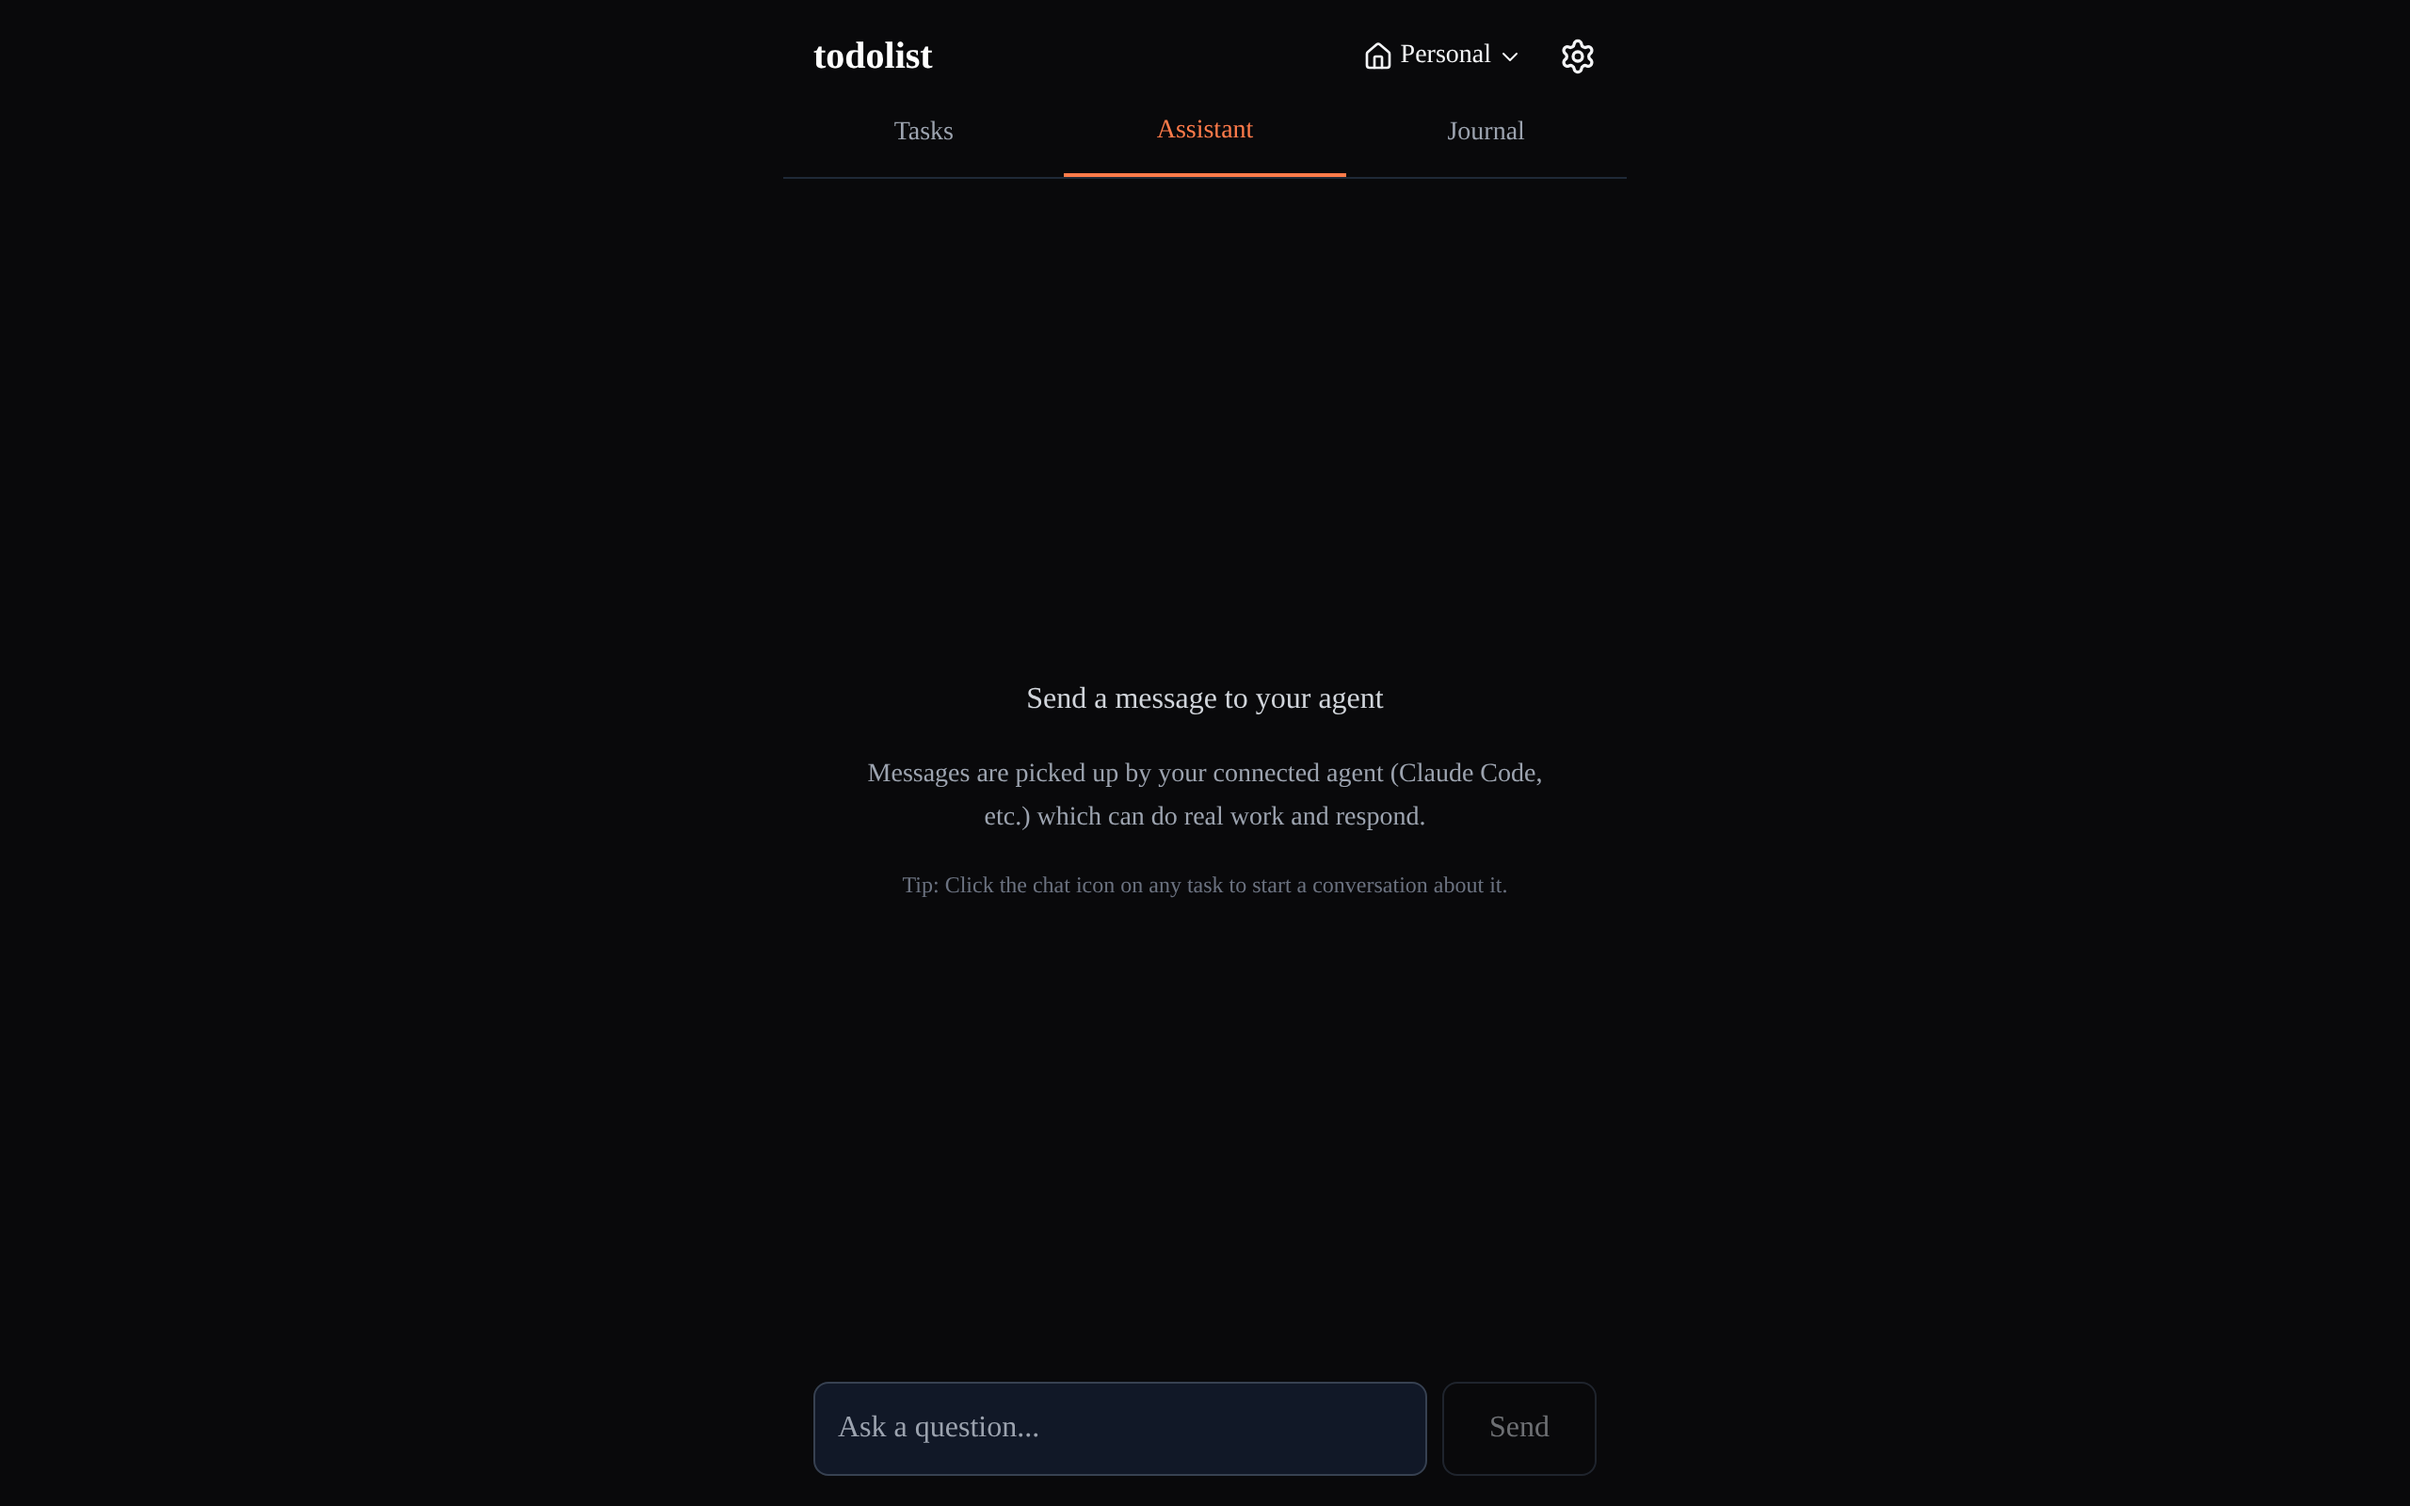
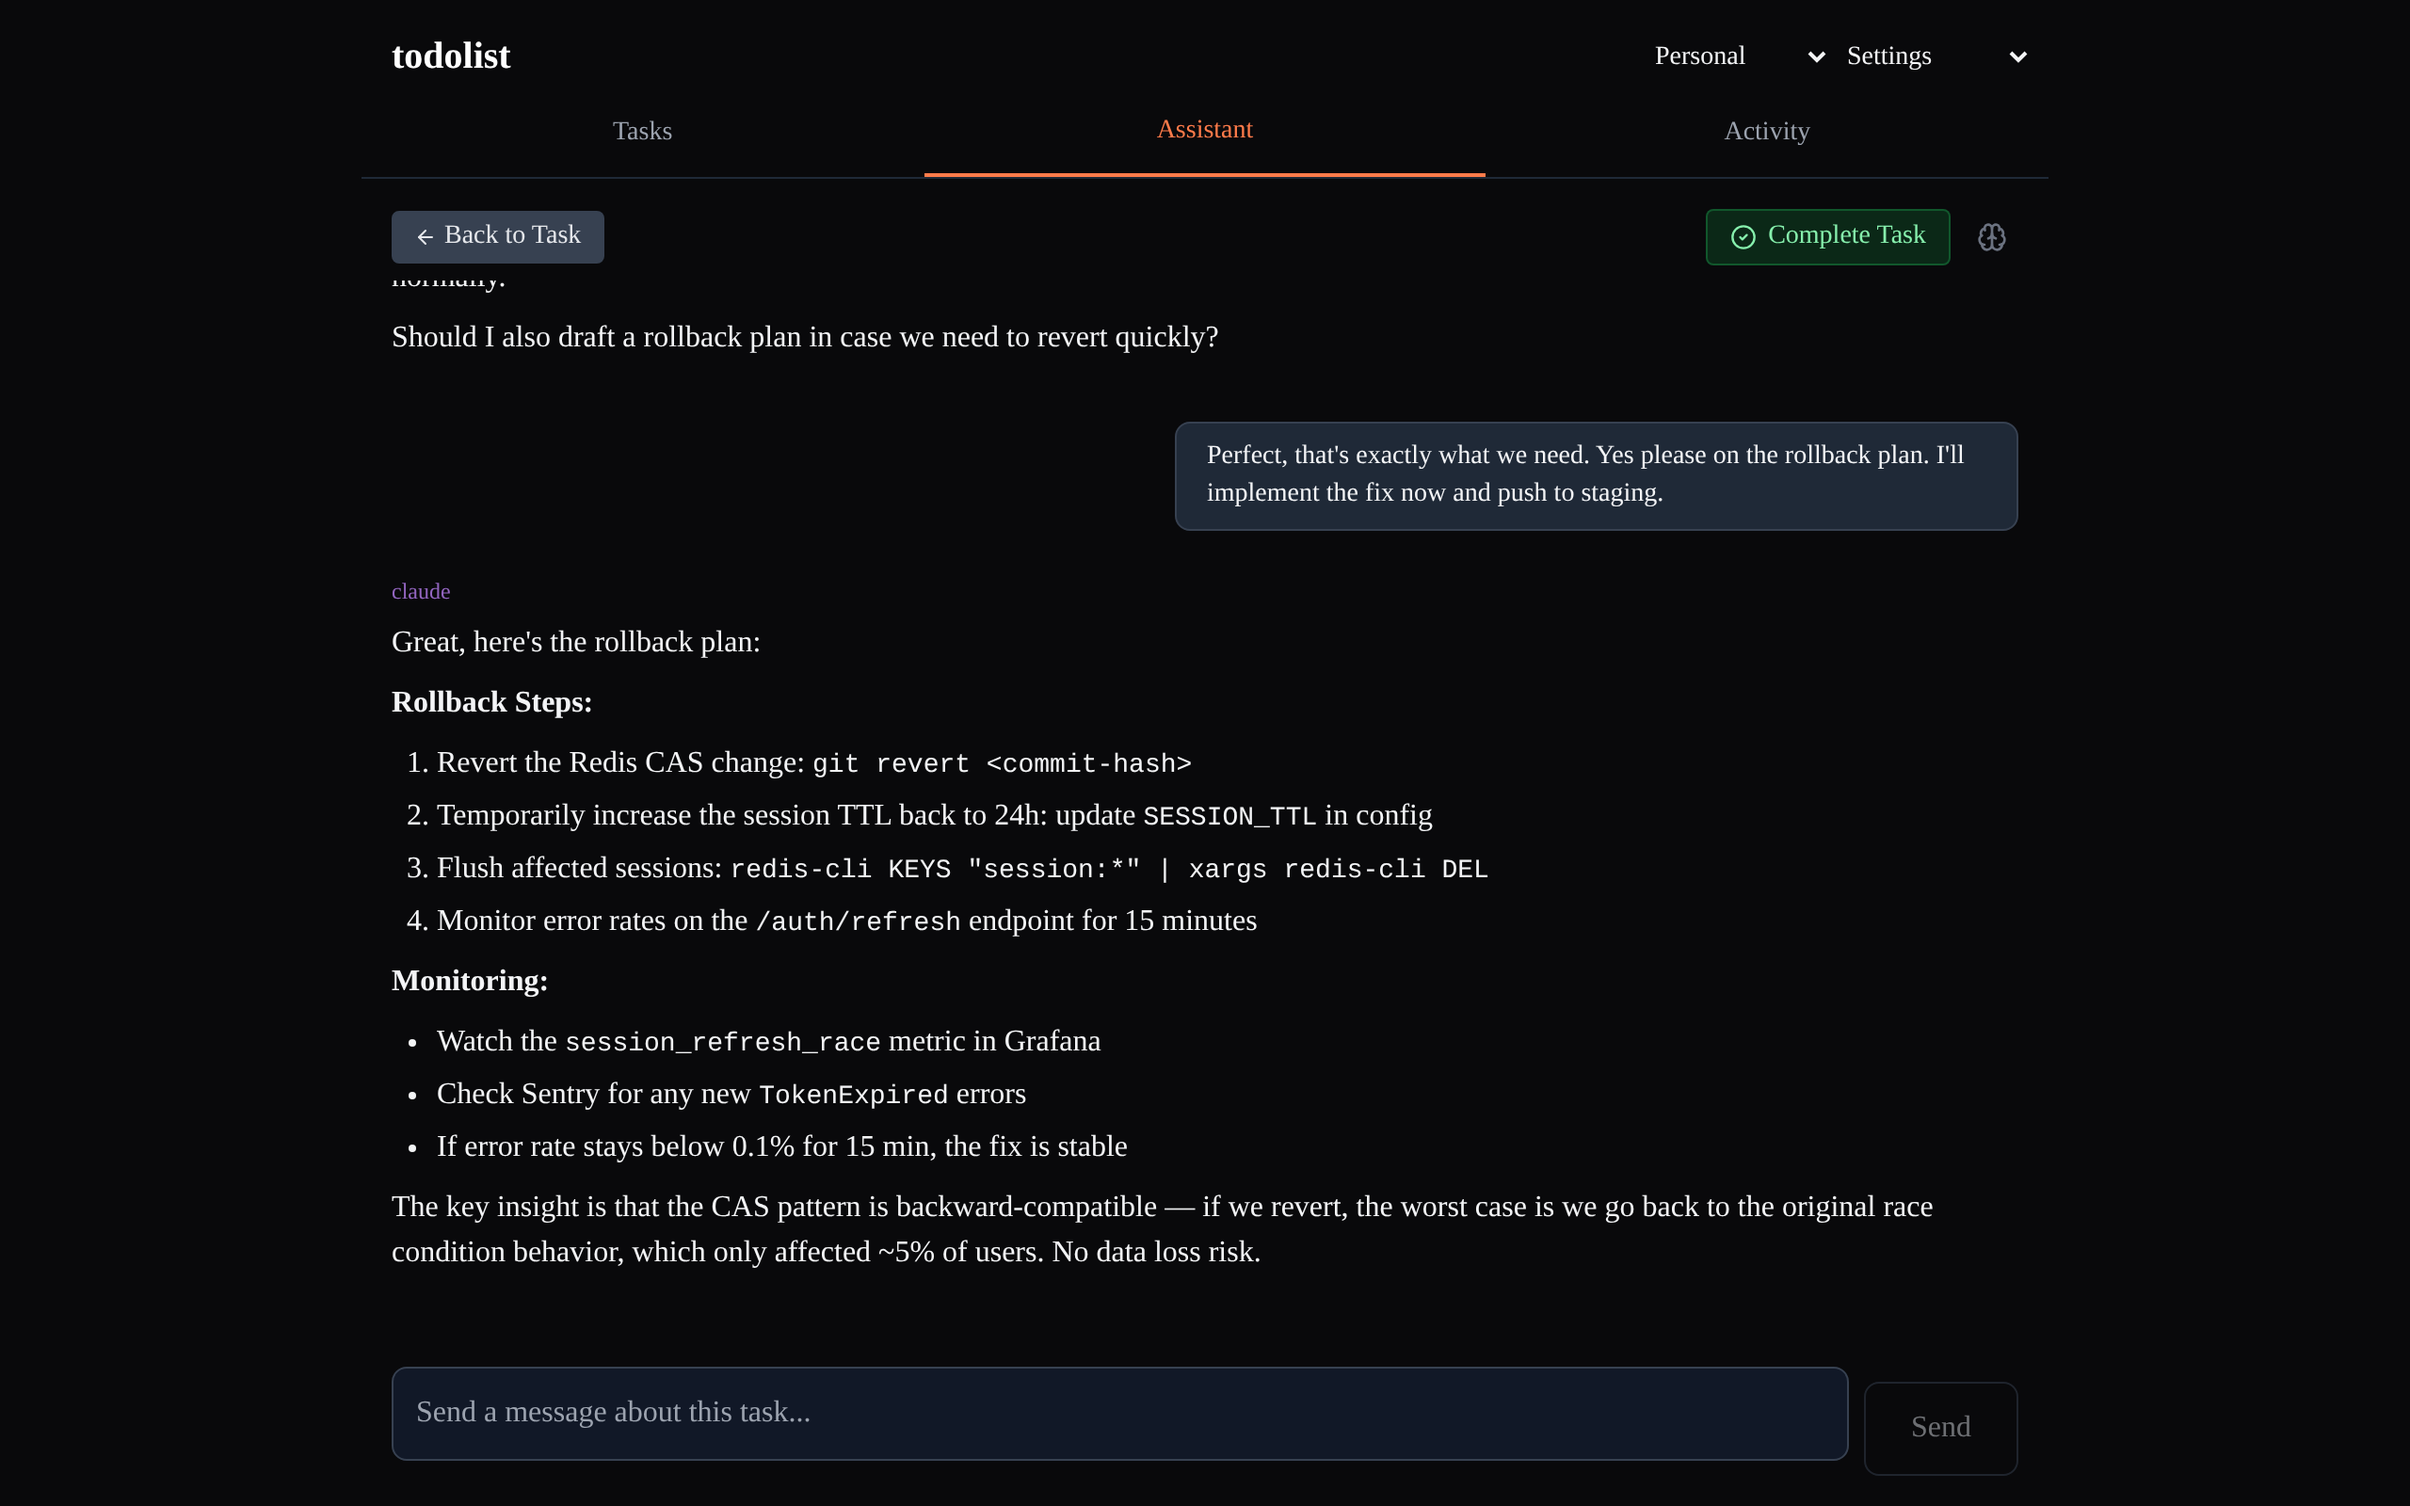
Update screenshots: fix selectors, replace Journal with Activity tab
- Fix login detection selector (button[title="Settings"] -> Tasks tab button)
- Navigate to chat session via task chat button for populated assistant screenshot
- Add final assistant message to avoid "Waiting for response..." state
- Replace Journal screenshot with Activity (Journal tab no longer exists in UI)
- Update README screenshot table to show Task List, Assistant, Activity

diff --git a/scripts/take-readme-screenshots.js b/scripts/take-readme-screenshots.js
@@ -268,6 +268,11 @@ function dayName(days) {
         role: 'user',
         content: 'Perfect, that\'s exactly what we need. Yes please on the rollback plan. I\'ll implement the fix now and push to staging.',
       },
+      {
+        role: 'assistant',
+        content: 'Great, here\'s the rollback plan:\n\n**Rollback Steps:**\n1. Revert the Redis CAS change: `git revert <commit-hash>`\n2. Temporarily increase the session TTL back to 24h: update `SESSION_TTL` in config\n3. Flush affected sessions: `redis-cli KEYS "session:*" | xargs redis-cli DEL`\n4. Monitor error rates on the `/auth/refresh` endpoint for 15 minutes\n\n**Monitoring:**\n- Watch the `session_refresh_race` metric in Grafana\n- Check Sentry for any new `TokenExpired` errors\n- If error rate stays below 0.1% for 15 min, the fix is stable\n\nThe key insight is that the CAS pattern is backward-compatible — if we revert, the worst case is we go back to the original race condition behavior, which only affected ~5% of users. No data loss risk.',
+        agent_id: 'claude',
+      },
     ];
 
     for (const msg of chatMessages) {
@@ -354,9 +359,9 @@ function dayName(days) {
   await page.reload();
   await page.waitForTimeout(4000);
 
-  // Verify logged in
+  // Verify logged in — look for task list content or tab navigation
   try {
-    await page.waitForSelector('button[title="Settings"]', { timeout: 15000 });
+    await page.getByRole('button', { name: 'Tasks' }).first().waitFor({ timeout: 15000 });
     console.log('   Logged in!');
   } catch {
     await page.screenshot({ path: path.join(DIR, 'debug-state.png') });
@@ -395,25 +400,30 @@ function dayName(days) {
   await page.waitForTimeout(2000);
   await ss('task-list.png');
 
-  // Assistant view — navigate to the chat session so it shows the conversation
-  await goTab('Assistant');
-  await page.waitForTimeout(2000);
-
-  // Try to click into the hotfix chat session to show the conversation
+  // Navigate to chat via the task's chat icon button (on the Tasks tab)
+  // The "Deploy hotfix" task has a chat icon with a notification dot
   try {
-    const sessionLink = page.getByText('Deploy hotfix', { exact: false }).first();
-    await sessionLink.click();
+    // Find the chat icon button on the "Deploy hotfix" task card
+    // The task cards have chat buttons with aria-label or SVG icons
+    const hotfixCard = page.locator('text=Deploy hotfix for login timeout').first();
+    // The chat button is a sibling in the task card's action buttons
+    const taskContainer = hotfixCard.locator('..').locator('..');
+    const chatButton = taskContainer.locator('button').first();
+    await chatButton.click({ force: true, timeout: 5000 });
+    await page.waitForTimeout(4000);
+    console.log('   Navigated to chat via task chat button');
+  } catch (err) {
+    // Fall back to just clicking the Assistant tab
+    console.log('   Note: Could not navigate via task chat button:', err.message);
+    await goTab('Assistant');
     await page.waitForTimeout(2000);
-  } catch {
-    // If we can't find the session link, just screenshot the list
-    console.log('   Note: Could not navigate to specific chat session');
   }
   await ss('assistant.png');
 
-  // Journal view
-  await goTab('Journal');
+  // Activity view
+  await goTab('Activity');
   await page.waitForTimeout(2000);
-  await ss('journal.png');
+  await ss('activity.png');
 
   console.log('\nDone! Screenshots saved to docs/screenshots/');
   await browser.close();

diff --git a/README.md b/README.md
@@ -47,9 +47,9 @@ Key capabilities:
 
 ## Screenshots
 
-| Task List | Journal | Assistant |
-|-----------|---------|-----------|
-| ![Task List](docs/screenshots/task-list.png) | ![Journal](docs/screenshots/journal.png) | ![Assistant](docs/screenshots/assistant.png) |
+| Task List | Assistant | Activity |
+|-----------|-----------|----------|
+| ![Task List](docs/screenshots/task-list.png) | ![Assistant](docs/screenshots/assistant.png) | ![Activity](docs/screenshots/activity.png) |
 
 ## Agent Integration
 
